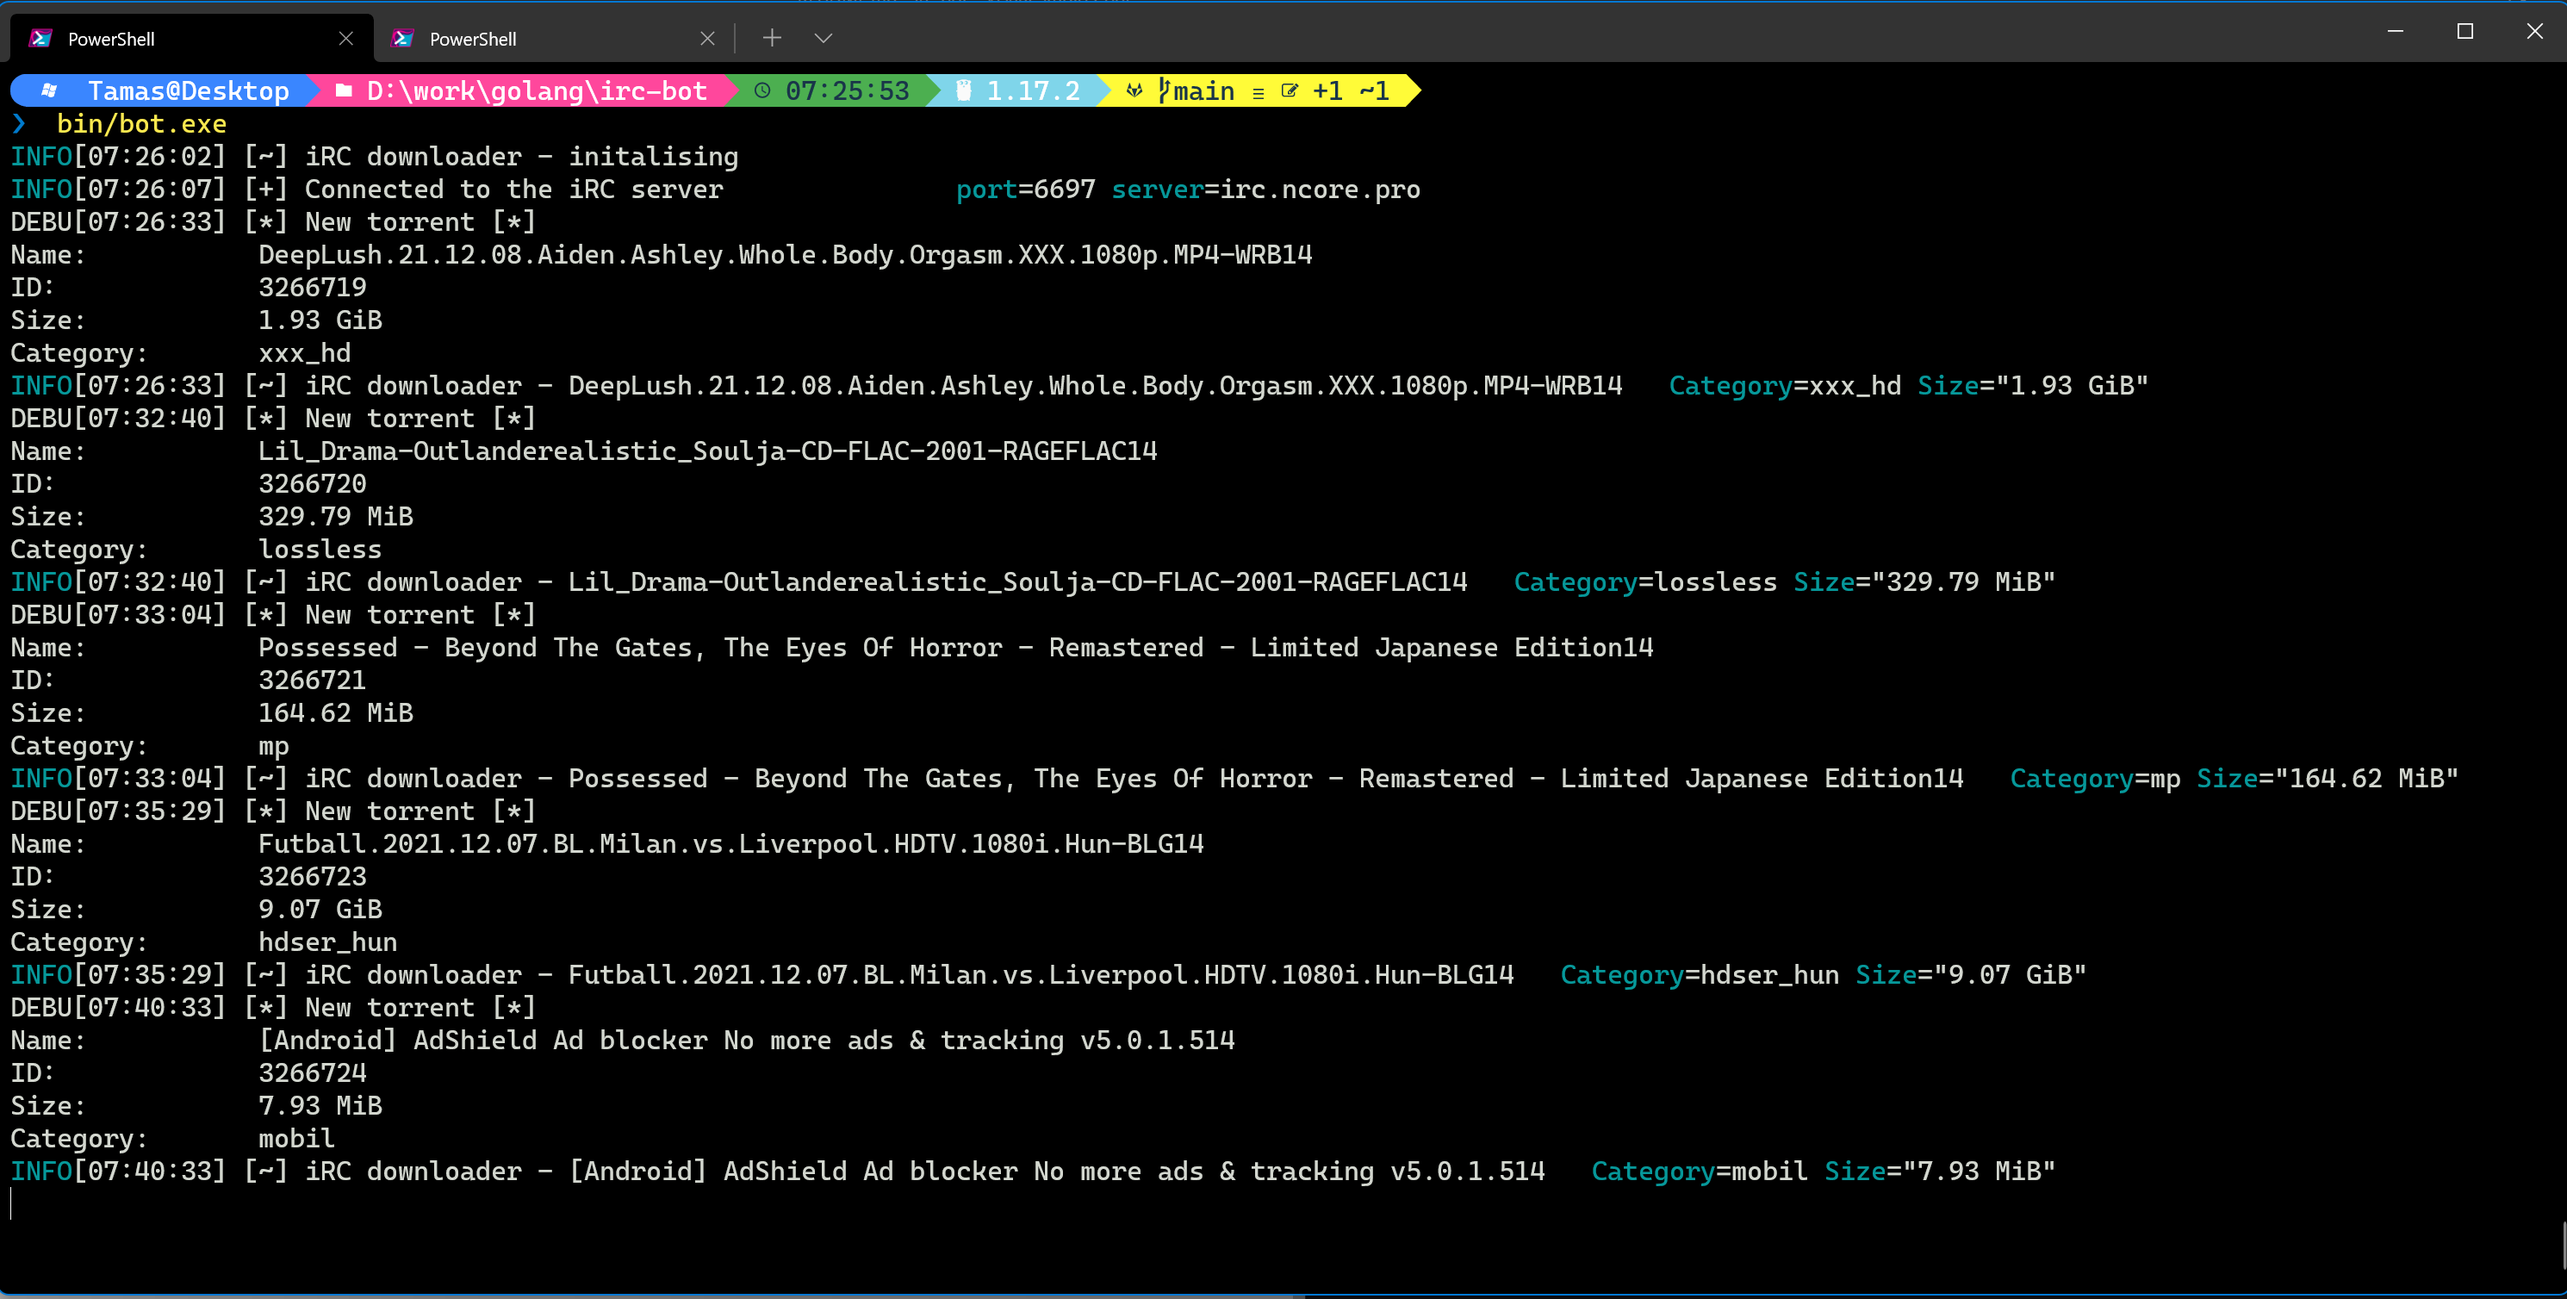
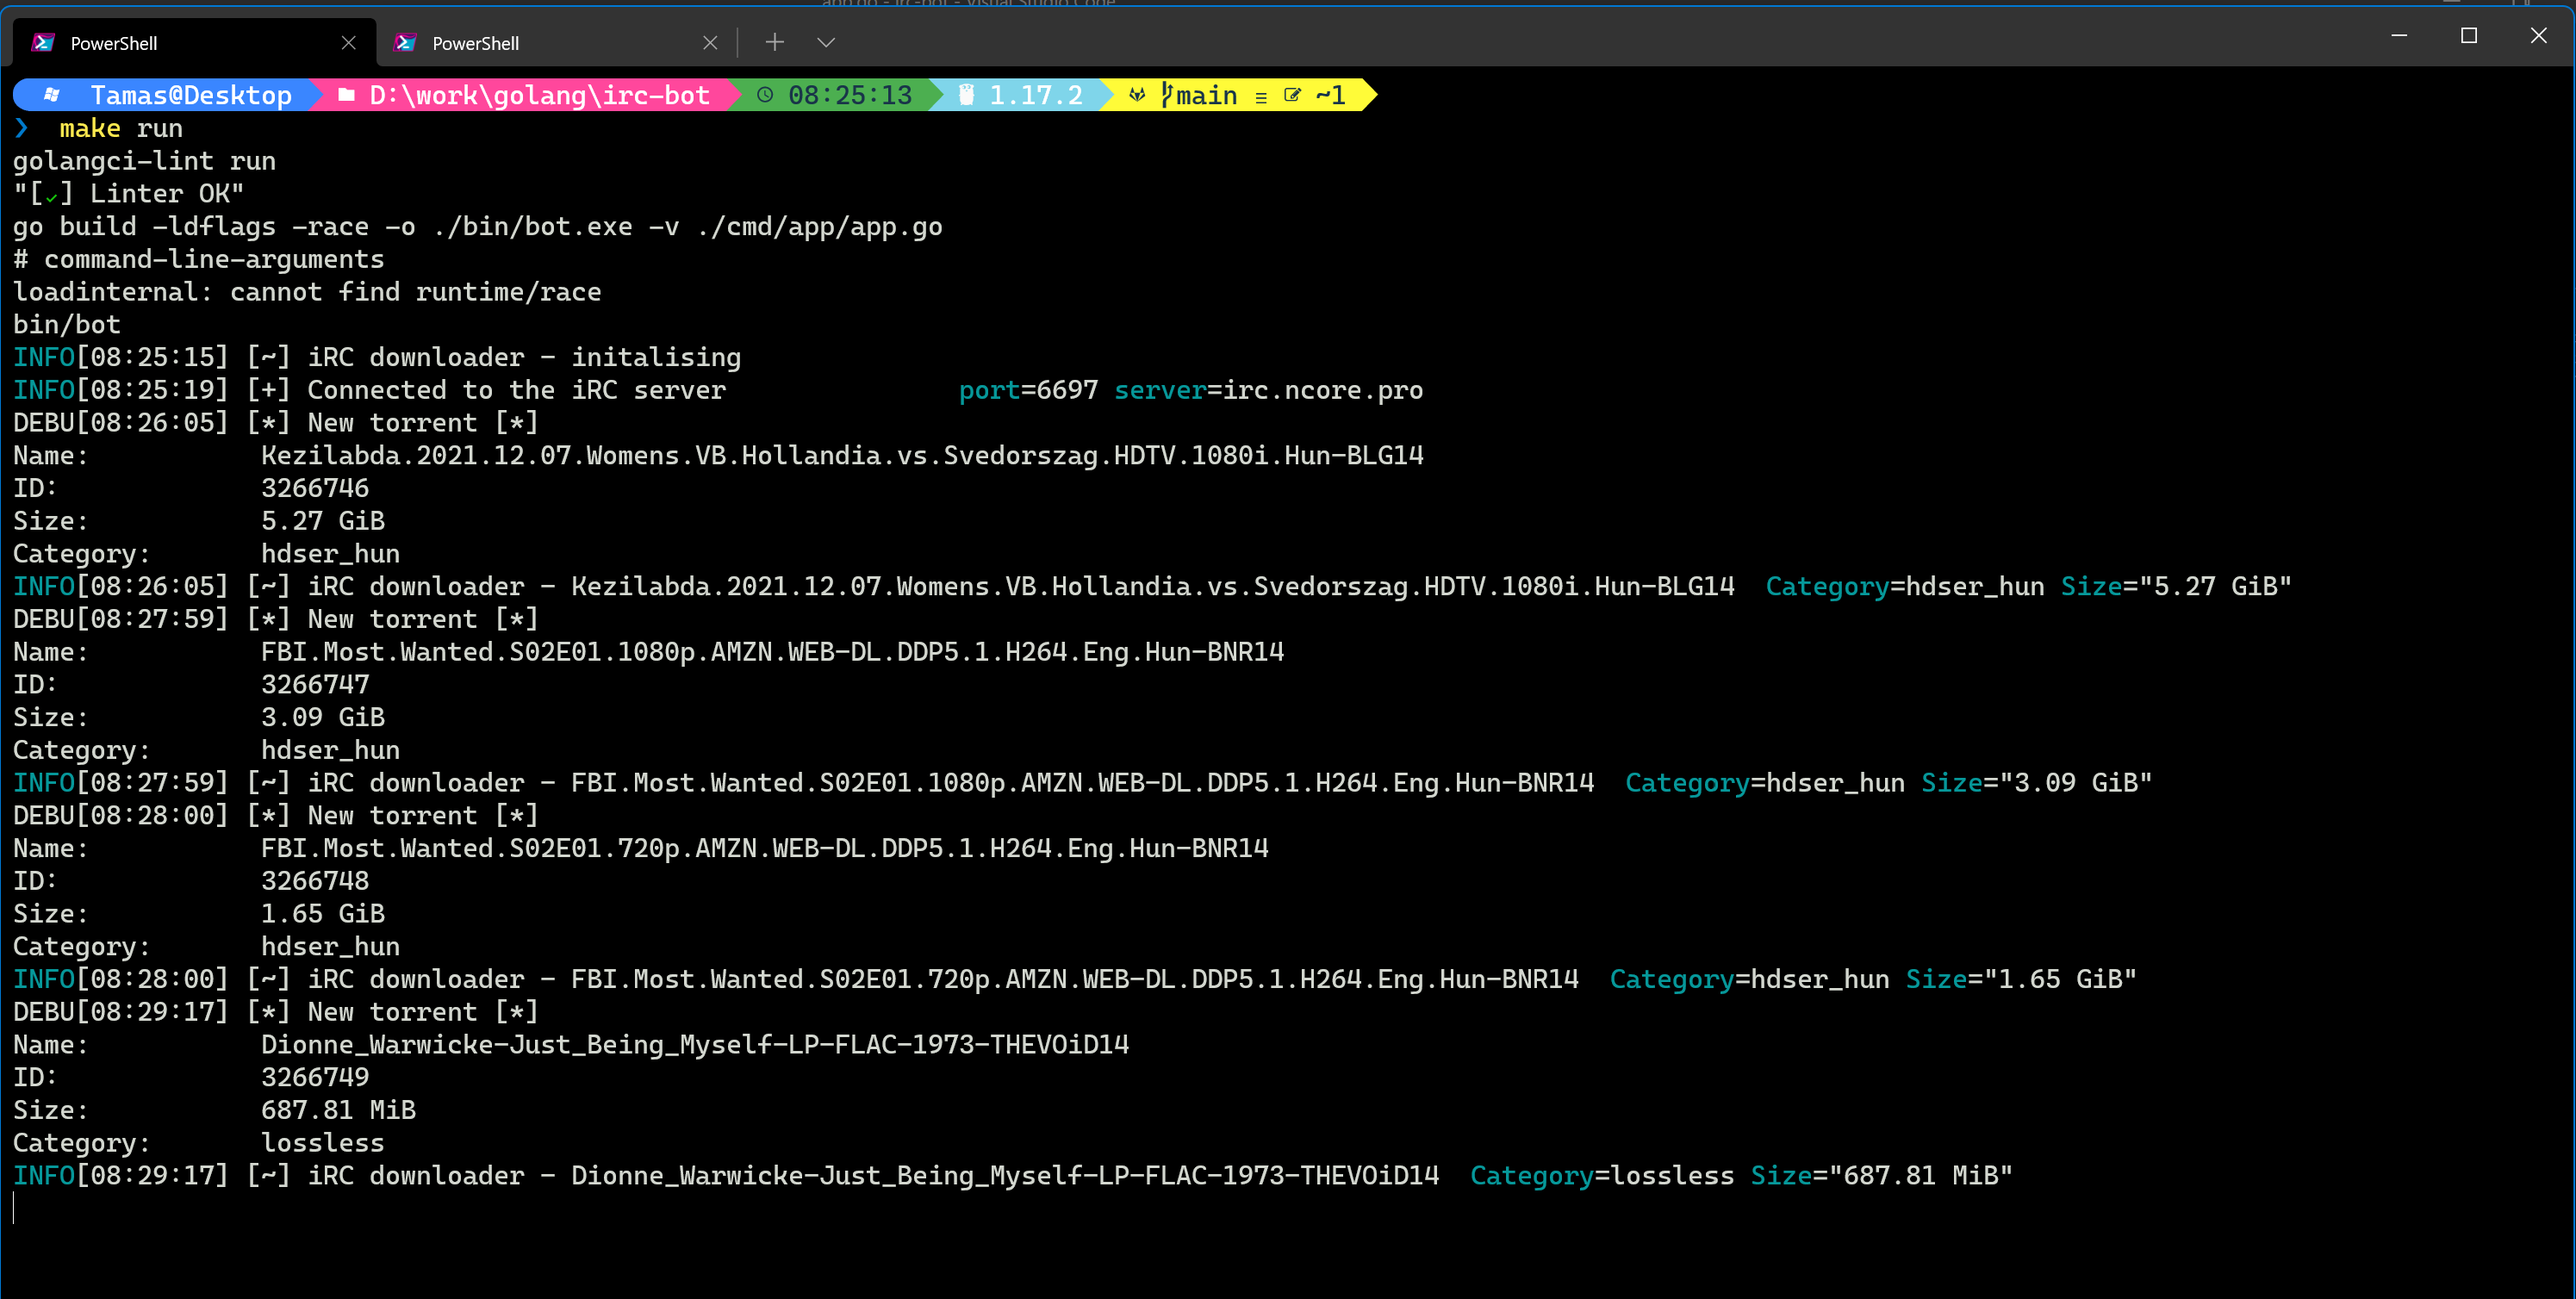
r

diff --git a/cmd/app/app.go b/cmd/app/app.go
@@ -102,7 +102,7 @@ func handleMessage(cfg *config.Config, line *irc.Line) {
 	/*
 		https://regex101.com/
 	*/
-	nCoreRegexp := `\[NEW TORRENT in .\d{0,}?(\D{1,}).*?]\d{0,}\s?(.*)>\d{1,}? {0,}?(\d{1,5}\.?\d{0,2}) (MiB|GiB|TiB).*in.*>\s{1,}https:\/\/[a-zA-Z{2,}].*id=(\d+)\s?`
+	nCoreRegexp := `\[NEW TORRENT in .\d{0,}?(\D{1,}).*]\d{0,}\s?(.*)\14?\s>\d{1,}? {0,}?(\d{1,5}\.?\d{0,2}) (MiB|GiB|TiB).*in.*>\s{1,}https:\/\/[a-zA-Z{2,}].*id=(\d+)\s?`
 
 	// Remove the unicode/non printable characters which screws up the regexp..
 	message := strings.Map(func(r rune) rune {
